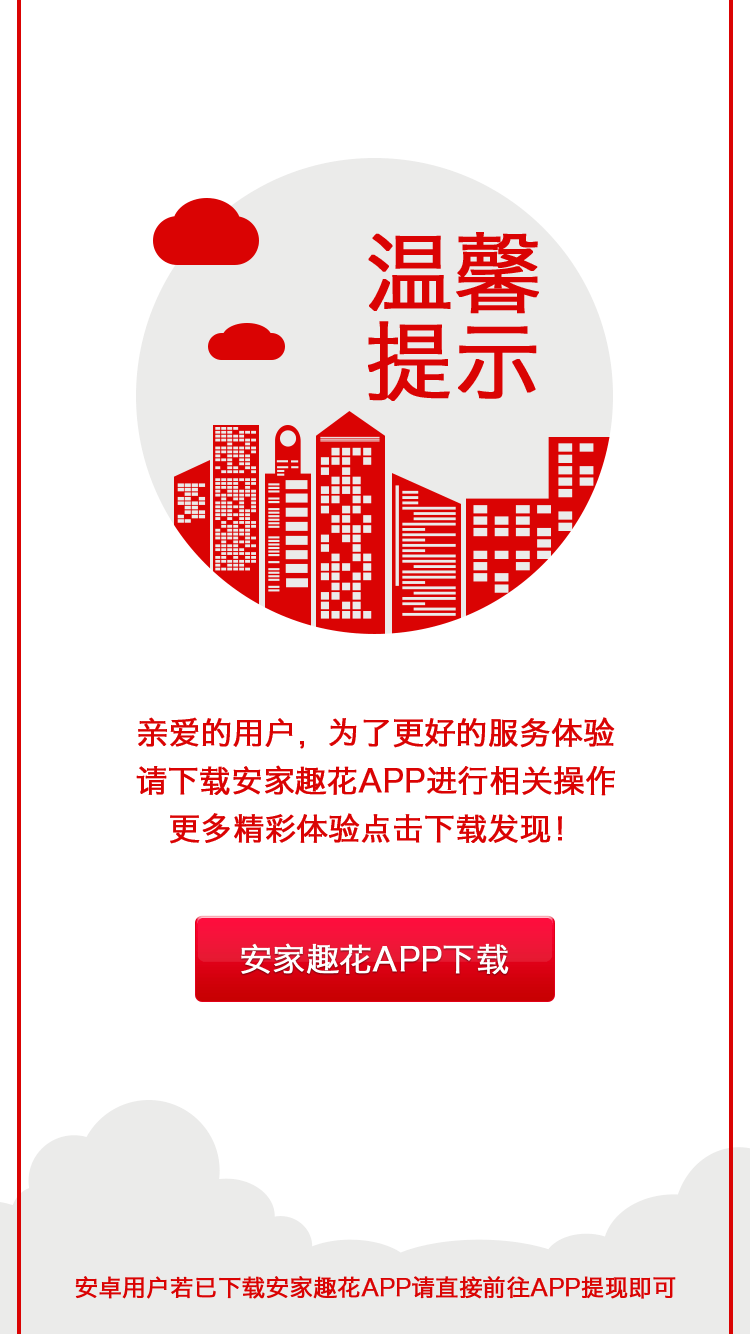
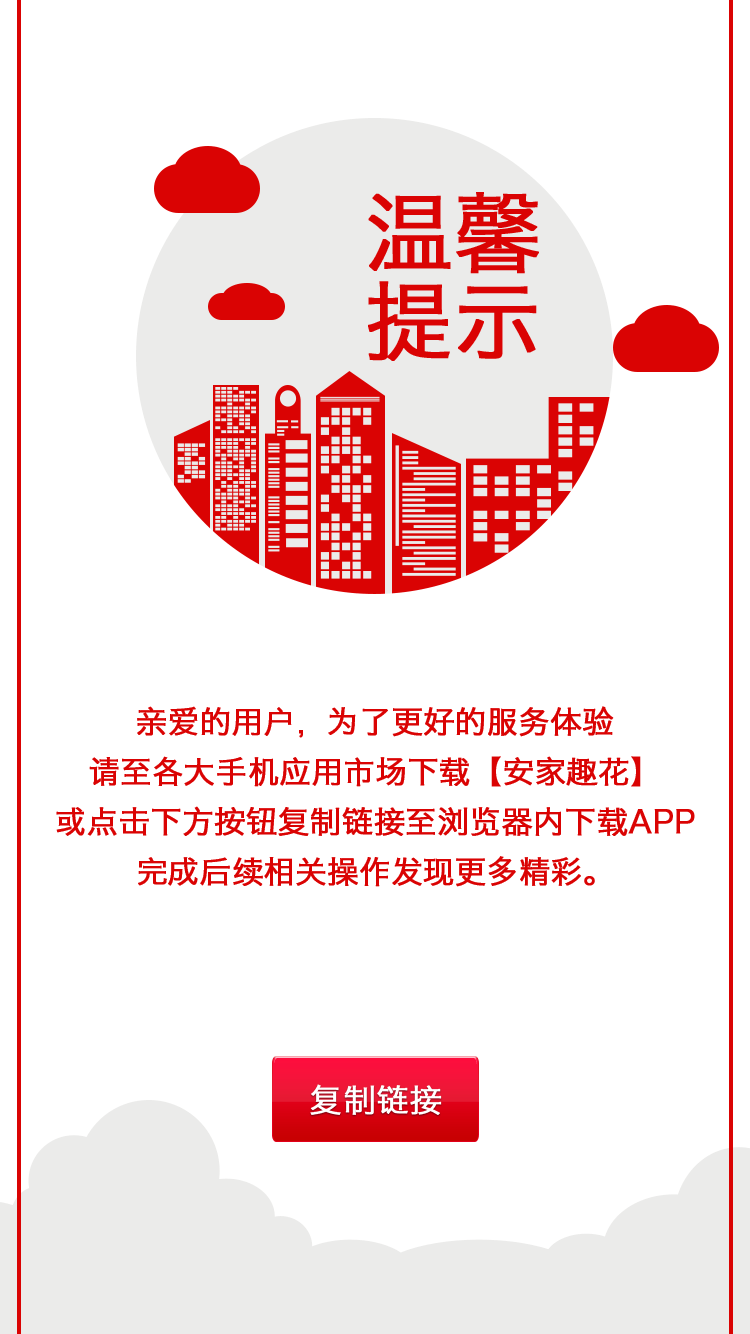
fix

Changed region(s): [[0.0613, 0.5225, 0.92, 0.8606], [0.184, 0.0922, 0.9813, 0.4918], [0.092, 0.9528, 0.8893, 0.9835]]

diff --git a/app/views/contracts/downloadAjqhApp.html b/app/views/contracts/downloadAjqhApp.html
@@ -1,6 +1,6 @@
 <!--一键解读房易贷-->
 <div class="downloadAjqhApp">
-	  <div class="copyBtn" data-clipboard-text="来呀~快活呀，反正有~大把头发~">一键复制</div>
+   <div class="copyBtn" data-clipboard-text="http://a.app.qq.com/o/simple.jsp?pkgname=com.vcredit.ajqh"></div>
    <img src="./images/downloadAjqhApp.png" />
    <div class="download" ng-click="routeajppAndroid()"></div>
 </div>

diff --git a/app/styles/style.css b/app/styles/style.css
@@ -4940,3 +4940,11 @@
     left: 9.6rem;
     top: 45.7rem;
 }
+.downloadAjqhApp .copyBtn {
+    width: 11rem;
+    height: 5rem;
+    position: absolute;
+    left: 13.2rem;
+    top: 52.5rem;
+    z-index: 1000;
+}
